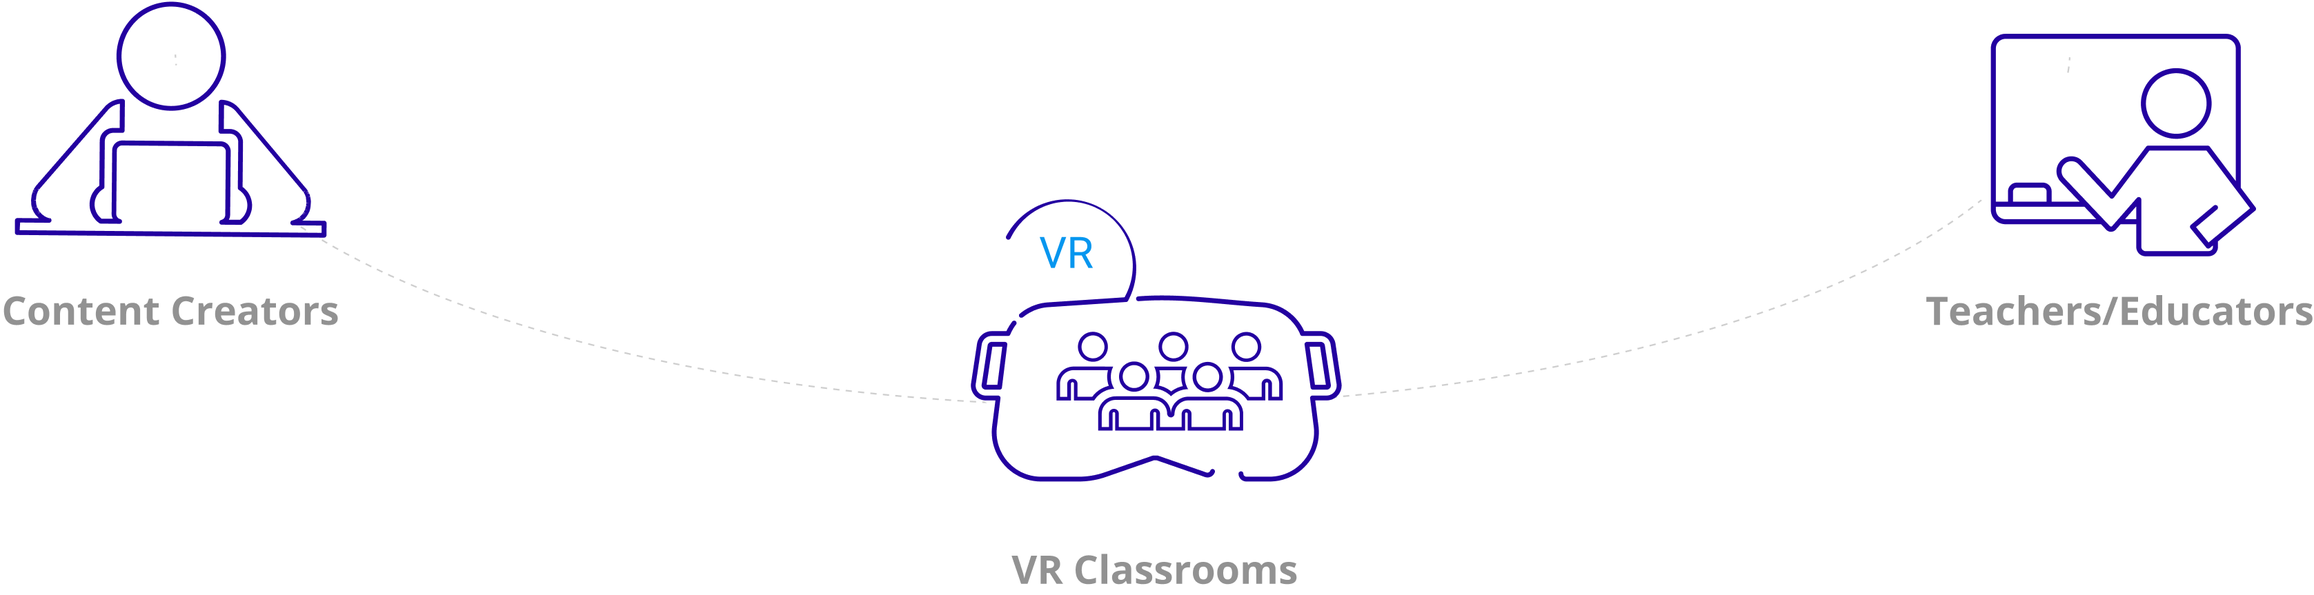
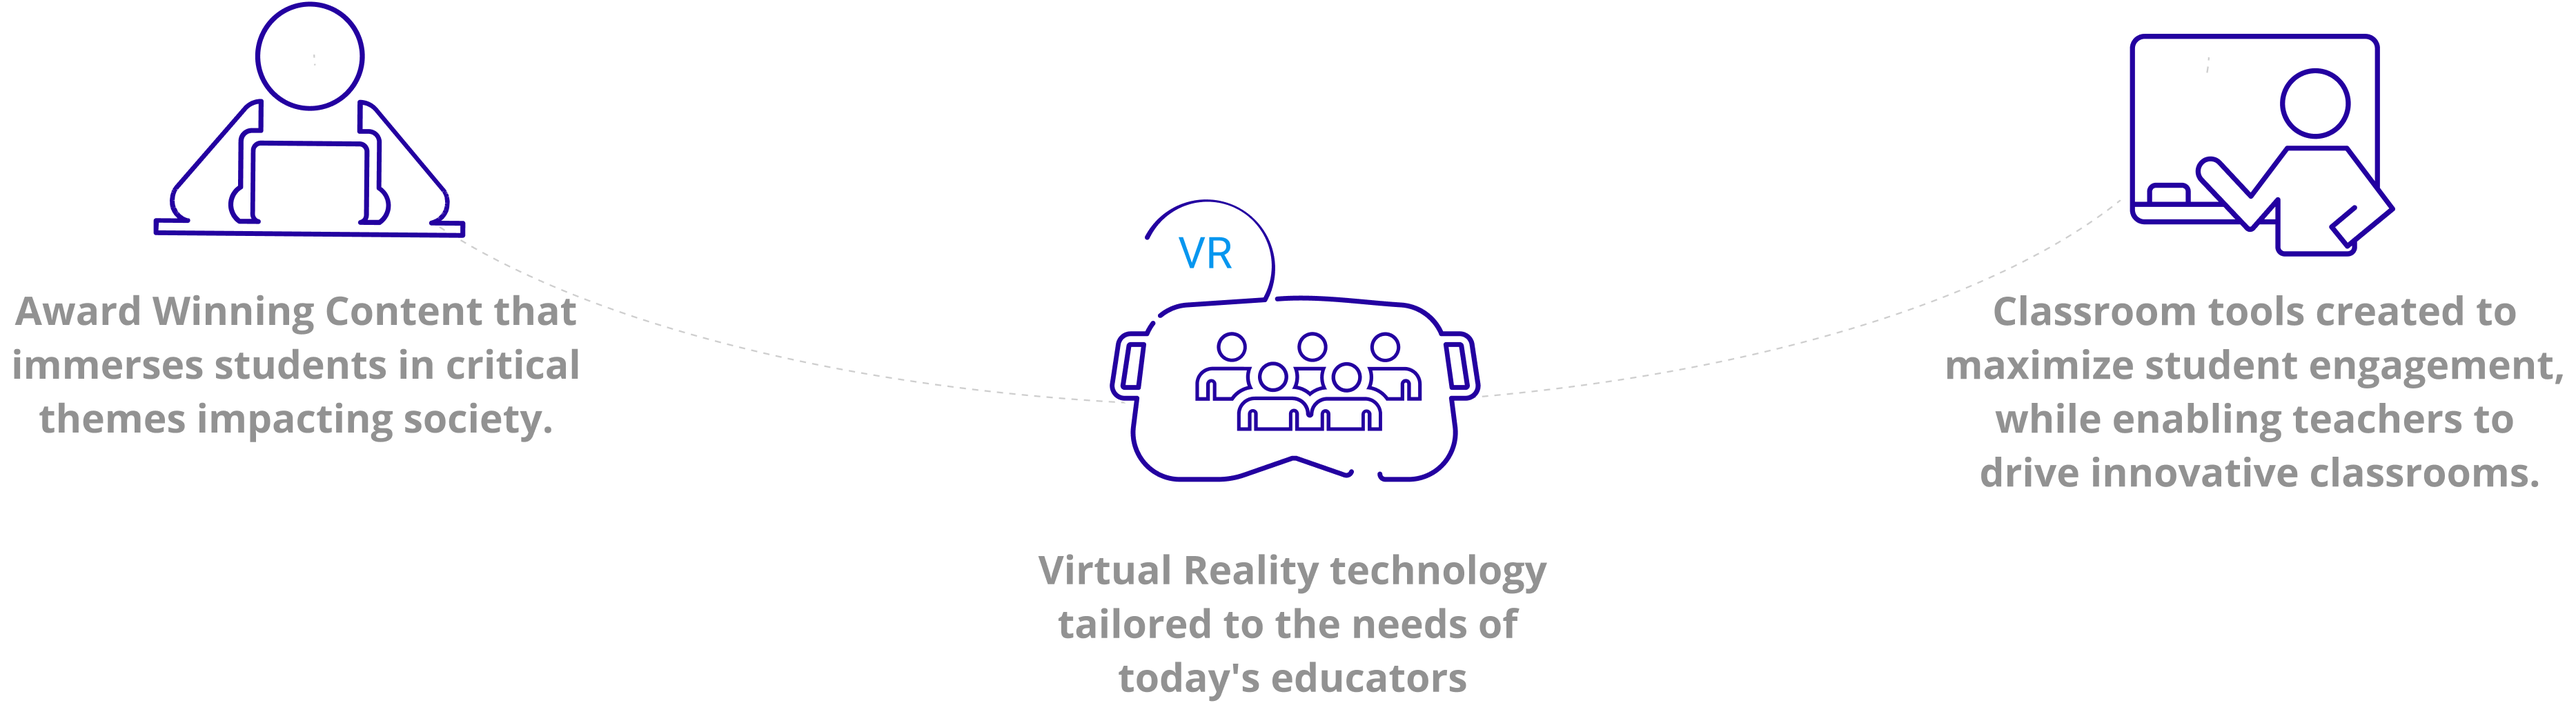
style

diff --git a/CommonPages/Containers/Home.js b/CommonPages/Containers/Home.js
@@ -23,13 +23,13 @@ class Home extends Component{
            <HomeHeader/>
             <section className="home-banner">
               <div className="container">
-                <h1>The Power of Immersive Technology</h1>
+                <h1>Unleashing the Immersive Learning Movement</h1>
               </div>
             </section>
             <section className="banner-bottom">
               <div className="container">
                 <h2>We are a movement...</h2>
-                <p>Lorem ipsum dolor sit amet, consectetur adipiscing elit. Integer eu efficitur est. Suspendisse eget est rutrum, venenatis velit quis, dignissim ex. Mauris elementum nibh semper elit volutpat, et</p>
+                <p>Virtual Reality transforms the learning experience by bringing anything you can imagine into the classroom. From exploring solar systems to standing in the middle of the Amazon Rainforest, students can now engage in learning like never before within minutes.</p>
               </div>
             </section>
             <section className="about-this">
@@ -37,7 +37,7 @@ class Home extends Component{
                 <div className="row">
                   <div className="col-md-6 cnt-area-lft">
                     <h2><span>Unlock</span>the Power of Immersive Technology</h2>
-                    <p>Experience the ultimate Lorem ipsum dolor sit amet, consectetur adipiscing elit, sed do eiusmod tempor. incididunt ut labore et dolore magna aliqua. Ut enim</p>
+                    <p>Our unique education solution enables teachers to empower the student with award winning immersive content coupled with the right tools</p>
                     <a href="#">View TECHROW Features →</a>
                     
                   </div>
@@ -49,7 +49,8 @@ class Home extends Component{
             </section>
             <section className="techrow-platform">
               <div className="container">
-                <h4><img src="../images/logo-grey.png" className="img-fluid logo"/>Platform</h4>
+                <h4>
+                Renaissance Platform</h4>
                 <div className="techrow-works">
                   <img src="../images/techrow-platform.png" className="img-fluid"/>
                 </div>
@@ -61,10 +62,10 @@ class Home extends Component{
                 <img src="../images/how-it-works.png" className="img-fluid how-it-works"/>
                 <div className="row">
                   <div className="col-md-6">
-                    <p>Lorem ipsum dolor sit amet, consectetur adipiscing elit, sed do eiusmod tempor incididunt ut labore et dolore magnaaliqua. Ut enim adaes aminim veniam, quis </p>
+                    <p>School subscribes to a world of immersive educational content and educator tools</p>
                   </div>
                   <div className="col-md-6">
-                    <p>Lorem ipsum dolor sit amet, consectetur adipiscing elit, sed do eiusmod tempor incididunt ut labore et dolore magnaaliqua. Ut enim adaes aminim veniam, quis </p>
+                    <p>Educational content and tools are delivered on a high-powered virtual reality headset</p>
                   </div>
                 </div>
                 <h2>What You Get</h2>
@@ -72,19 +73,19 @@ class Home extends Component{
                   <div className="col-md-4">
                     <div className="works-types">
                       <h3 style={{color:'#F58221'}}>Marketplace</h3>
-                      <p>Lorem ipsum dolor sit amet, consectetur adipiscing elit, sed do eiusmod tempor incididunt ut labore et dolore magna aliqua. Ut enim adaes aminim veniam, quis nostrud exercitation ullamco laboris nisi ut aliquip ex ea commodo consequat. Duis aute irure dolor in reprehenderit in voluptate velit esse cillum dolore eu fugiat nulla pariatur. Excepteur sint occaecat </p>
+                      <p>Teachers can explore an entire marketplace of immersive content right at their fingertips categorized by subject to compliment curriculum</p>
                     </div>
                   </div>
                   <div className="col-md-4">
                     <div className="works-types">
                       <h3 style={{color:'#B0F542'}}>Experiences</h3>
-                      <p>Lorem ipsum dolor sit amet, consectetur adipiscing elit, sed do eiusmod tempor incididunt ut labore et dolore magna aliqua. Ut enim adaes aminim veniam, quis nostrud exercitation ullamco laboris nisi ut aliquip ex ea commodo consequat. Duis aute irure dolor in reprehenderit in voluptate velit esse cillum dolore eu fugiat nulla pariatur. Excepteur sint occaecat </p>
+                      <p>Students discover the world through immersive technology experiences improving the overall learning experience</p>
                     </div>
                   </div>
                   <div className="col-md-4">
                     <div className="works-types">
                       <h3 style={{color:'#FFF200'}}>Headset</h3>
-                      <p>Lorem ipsum dolor sit amet, consectetur adipiscing elit, sed do eiusmod tempor incididunt ut labore et dolore magna aliqua. Ut enim adaes aminim veniam, quis nostrud exercitation ullamco laboris nisi ut aliquip ex ea commodo consequat. Duis aute irure dolor in reprehenderit in voluptate velit esse cillum dolore eu fugiat nulla pariatur. Excepteur sint occaecat </p>
+                      <p>Cutting-edge, yet simple to use VR headset built for the needs of today’s classrooms and teachers.</p>
                     </div>
                   </div>
                 </div>
@@ -94,7 +95,7 @@ class Home extends Component{
                 </div>
               </div>
             </section>
-            <section className="testimonials">
+            <section className="testimonials d-none">
               <div className="container">
               <h2>Testimonials</h2>
                 <div className="row">

diff --git a/CommonPages/Containers/Features.js b/CommonPages/Containers/Features.js
@@ -1,0 +1,134 @@
+import React, { Component } from 'react';
+import {bindActionCreators} from 'redux';
+import { connect } from 'react-redux';
+import axios from 'axios';
+
+import HomeHeader from '../Components/HomeHeader';
+
+class Features extends Component{
+	constructor(props){
+		super(props);
+    this.state = {
+      
+    }
+	}
+  
+  componentDidMount(){
+      
+  }
+
+  render(){
+      return(
+        <div className="full-page animated fadeIn features-page">
+           <HomeHeader/>
+            
+            <section className="about-this banner">
+              <div className="container cnt-area">
+                <div className="row">
+                  <div className="col-md-6 about-cnt-rt">
+                    <img src="./images/class-room.jpg" className="img-fluid" alt="vr"/>
+                  </div>
+                  <div className="col-md-6 cnt-area-lft">
+                    <h2>Classroom Setup</h2>
+                    <p>An extensive educational library of immersive content covering a range of subjects from science to current events coupled with cutting edge VR headsets providing students with a truly immersive learning experience.</p>
+                  </div>
+                </div>
+              </div>
+            </section>
+            <section className="about-this">
+              <div className="container cnt-area">
+                <div className="row">
+                  <div className="col-md-6 cnt-area-lft">
+                    <h2><span>Unlock</span>Marketplace</h2>
+                    <p>An entire eco-system of world class educational immersive content to enrich your classrooms with 21st century learning solutions. Content on the platform has been carefully curated to meet the needs of today's educators.</p>
+                    
+                  </div>
+                  <div className="col-md-6 about-cnt-rt">
+                    <img src="./images/marketplace.png" className="img-fluid" alt="vr"/>
+                  </div>
+                </div>
+              </div>
+            </section>
+            <section className="about-this" style={{backgroundColor:'#fbfbfb'}}>
+              <div className="container cnt-area">
+                <div className="row">
+                  <div className="col-md-6 about-cnt-rt">
+                    <img src="./images/class-room-mode.png" className="img-fluid" alt="vr"/>
+                  </div>                  
+                  <div className="col-md-6 cnt-area-lft">
+                    <h2><span>Experience</span>Classroom mode</h2>
+                    <p>Teachers have full control of the entire learning experience from end to end. By triggering classroom mode, students will view only what the teacher requires driving maximum focus, while maximizing teaching time.</p>
+                  </div>
+                </div>
+              </div>
+            </section>
+        
+   
+            <section className="contact-us">
+              <div className="container">
+                <div className="row">
+                  <div className="col-md-7">
+                    <h2>Have a question? Contact us!</h2>
+                    <div className="form">
+                      <div className="form-group">
+                        <input type="text" className="form-control" placeholder="Name"/>
+                      </div>
+                      <div className="form-group">
+                        <input type="email" className="form-control" placeholder="Email"/>
+                      </div>
+                      <div className="form-group">
+                        <input type="text" className="form-control" placeholder="Subject"/>
+                      </div>
+                      <div className="form-group">
+                        <textarea type="text" className="form-control" placeholder="Message...."></textarea>
+                      </div>
+                      <div className="form-group checkbox">
+                        <label><input type="checkbox" value=""/>Receive our TechRow newsletter</label>
+                      </div>
+                      <div className="form-group">
+                        <button>Submit</button>
+                      </div>
+                      
+                    </div>
+                  </div>
+                  <div className="col-md-5">
+                    <h3>Quick Links</h3>
+                    <ul>
+                      <li><a href="#">Features</a></li>
+                      <li><a href="#/signup">Sign Up</a></li>
+                      <li><a href="#/login">Sign In</a></li>
+                    </ul>
+                    
+                  </div>
+                </div>
+
+              </div>
+            </section>
+            <footer>
+              <div className="container">
+                <div className="footer-content">
+                  <copyright>© 2019 All Rights Reserved</copyright>
+                  <a href="#"><img src="../images/techrow-logo.png" className="img-fluid logo"  alt="techrow-logo" /></a>
+                  <div className="social-links">
+                    <a href="#"><img src="../images/instagram-icon.png" className="img-fluid"/></a>
+                    <a href="#"><img src="../images/facebook-icon.png" className="img-fluid"/></a>
+                    <a href="#"><img src="../images/twitter-icon.png" className="img-fluid"/></a>
+                  </div>
+                </div>
+              </div>
+            </footer>
+        </div>
+      );
+   }
+}
+
+
+function mapStateToProps(state){
+  return{
+    
+  };
+}
+function matchDispatchToProps(dispatch){
+  return bindActionCreators({ }, dispatch);
+}
+export default connect(mapStateToProps, matchDispatchToProps)(Features);

diff --git a/App.js b/App.js
@@ -15,6 +15,8 @@ const antIcon = <Icon type="loading" style={{ fontSize: 24 }} spin />;
 
 import {getAuthentication} from './actions/authentication'
 import Home from './CommonPages/Containers/Home';
+import Features from './CommonPages/Containers/Features';
+
 import Login from './CommonPages/Containers/Login';
 import SignUp from './CommonPages/Containers/SignUp';
 import OrderBundle from './CommonPages/Containers/OrderBundle';
@@ -86,6 +88,7 @@ class App extends Component{
               <div>
                  <Header/>
                  <Route exact path="/" component={Dashboard} />
+                 <Route exact path="/features" component={Features} />
            			 <Route exact path="/class/:id/:mode" component={Class} />
                  <Route exact path="/marketplace" component={Marketplace} />
                  <Route exact path="/marketplace/:id" component={MarketplaceDiscription} />
@@ -96,6 +99,7 @@ class App extends Component{
    		route=(
    				<div>
    					<Route exact path="/" component={Home} />
+            <Route exact path="/features" component={Features} />
             <Route exact path="/login" component={Login} />
             <Route exact path="/signup" component={SignUp} />
             <Route exact path="/redirect" component={Redirect} />

diff --git a/css/style.scss b/css/style.scss
@@ -231,7 +231,15 @@ footer{padding: 40px 0;
 	}
 }
 // ----------------HOME----------------
+// ---------------- features ----------------
 
+.features-page{padding-top: 85px;
+	.about-this{background-color: #EFEFF1;margin-bottom: 10px;
+		&.banner{background-color: #E2E0E4;}
+		.cnt-area{background:none}
+	}
+}
+// ---------------- features ----------------
 
 .inner-wrap{padding-top: 85px; min-height: 100vh;background-color: $grey;
 	.inner-blue-menu{background-color: $blue; width: 300px; position: fixed;left: 0; bottom: 0; top:85px;padding: 60px 0; text-align: center; display: flex;    justify-content: space-between; flex-direction: column; align-items: center;
@@ -726,6 +734,9 @@ box-shadow: inset 0px -59px 22px -46px rgba(255,255,255,1);}
 		}
 	}
 // ----------------HOME----------------
+
+
+.features-page{padding-top: 65px;}
 
 // ----------------Login----------------
 

diff --git a/css/style.css b/css/style.css
@@ -534,6 +534,16 @@ footer {
         -o-transform: rotate(360deg);
         transform: rotate(360deg); }
 
+.features-page {
+  padding-top: 85px; }
+  .features-page .about-this {
+    background-color: #EFEFF1;
+    margin-bottom: 10px; }
+    .features-page .about-this.banner {
+      background-color: #E2E0E4; }
+    .features-page .about-this .cnt-area {
+      background: none; }
+
 .inner-wrap {
   padding-top: 85px;
   min-height: 100vh;
@@ -1657,6 +1667,8 @@ footer {
       width: 100px; }
     footer .footer-content .social-links a img {
       height: 20px; }
+  .features-page {
+    padding-top: 65px; }
   .inner-wrap {
     padding-top: 70px; }
     .inner-wrap .inner-blue-menu {

diff --git a/CommonPages/Components/HomeHeader.js b/CommonPages/Components/HomeHeader.js
@@ -29,8 +29,9 @@ class HomeHeader extends Component{
                   <div className={this.state.menuClass?'openMenu head-right':'head-right'}>
                     <ul>
                       <li><a  href="#">About</a></li>
-                      <li><a  href="#">Features</a></li>
+                      <li><a  href="/features">Features</a></li>
                       <li><a  href="#">Contact</a></li>
+                      <li><a  href="http://www.techrowfund.org" target="_blank">TechRow Fund</a></li>
                     </ul>
                     <ul>
                       <li className="login"> <a href="#/login">Login</a></li>
